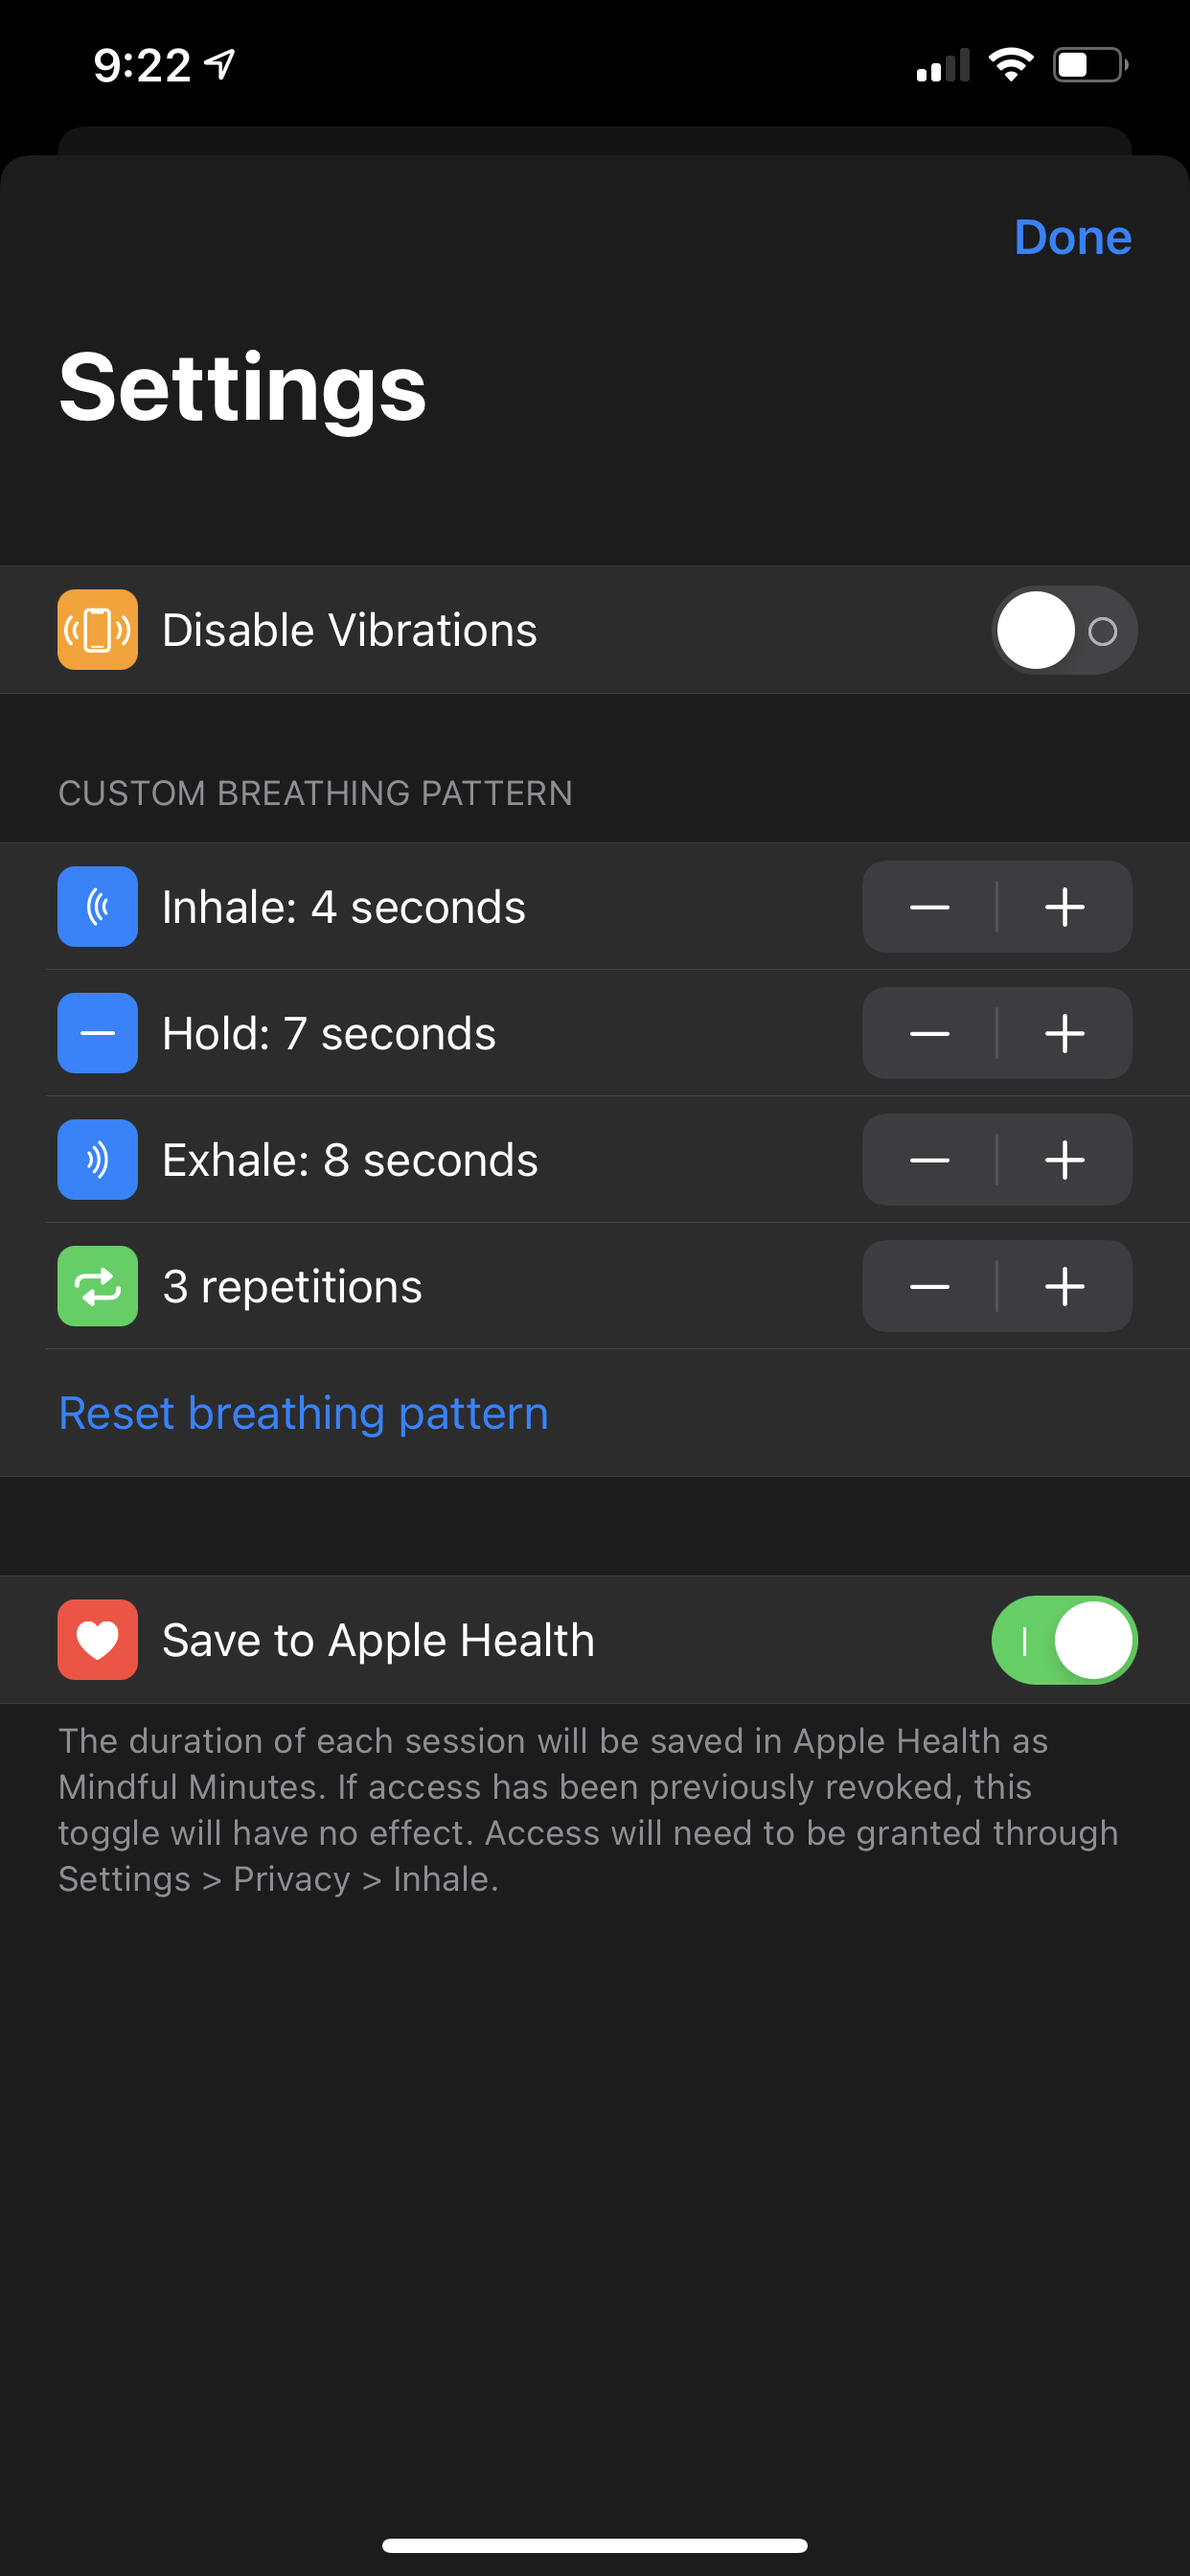
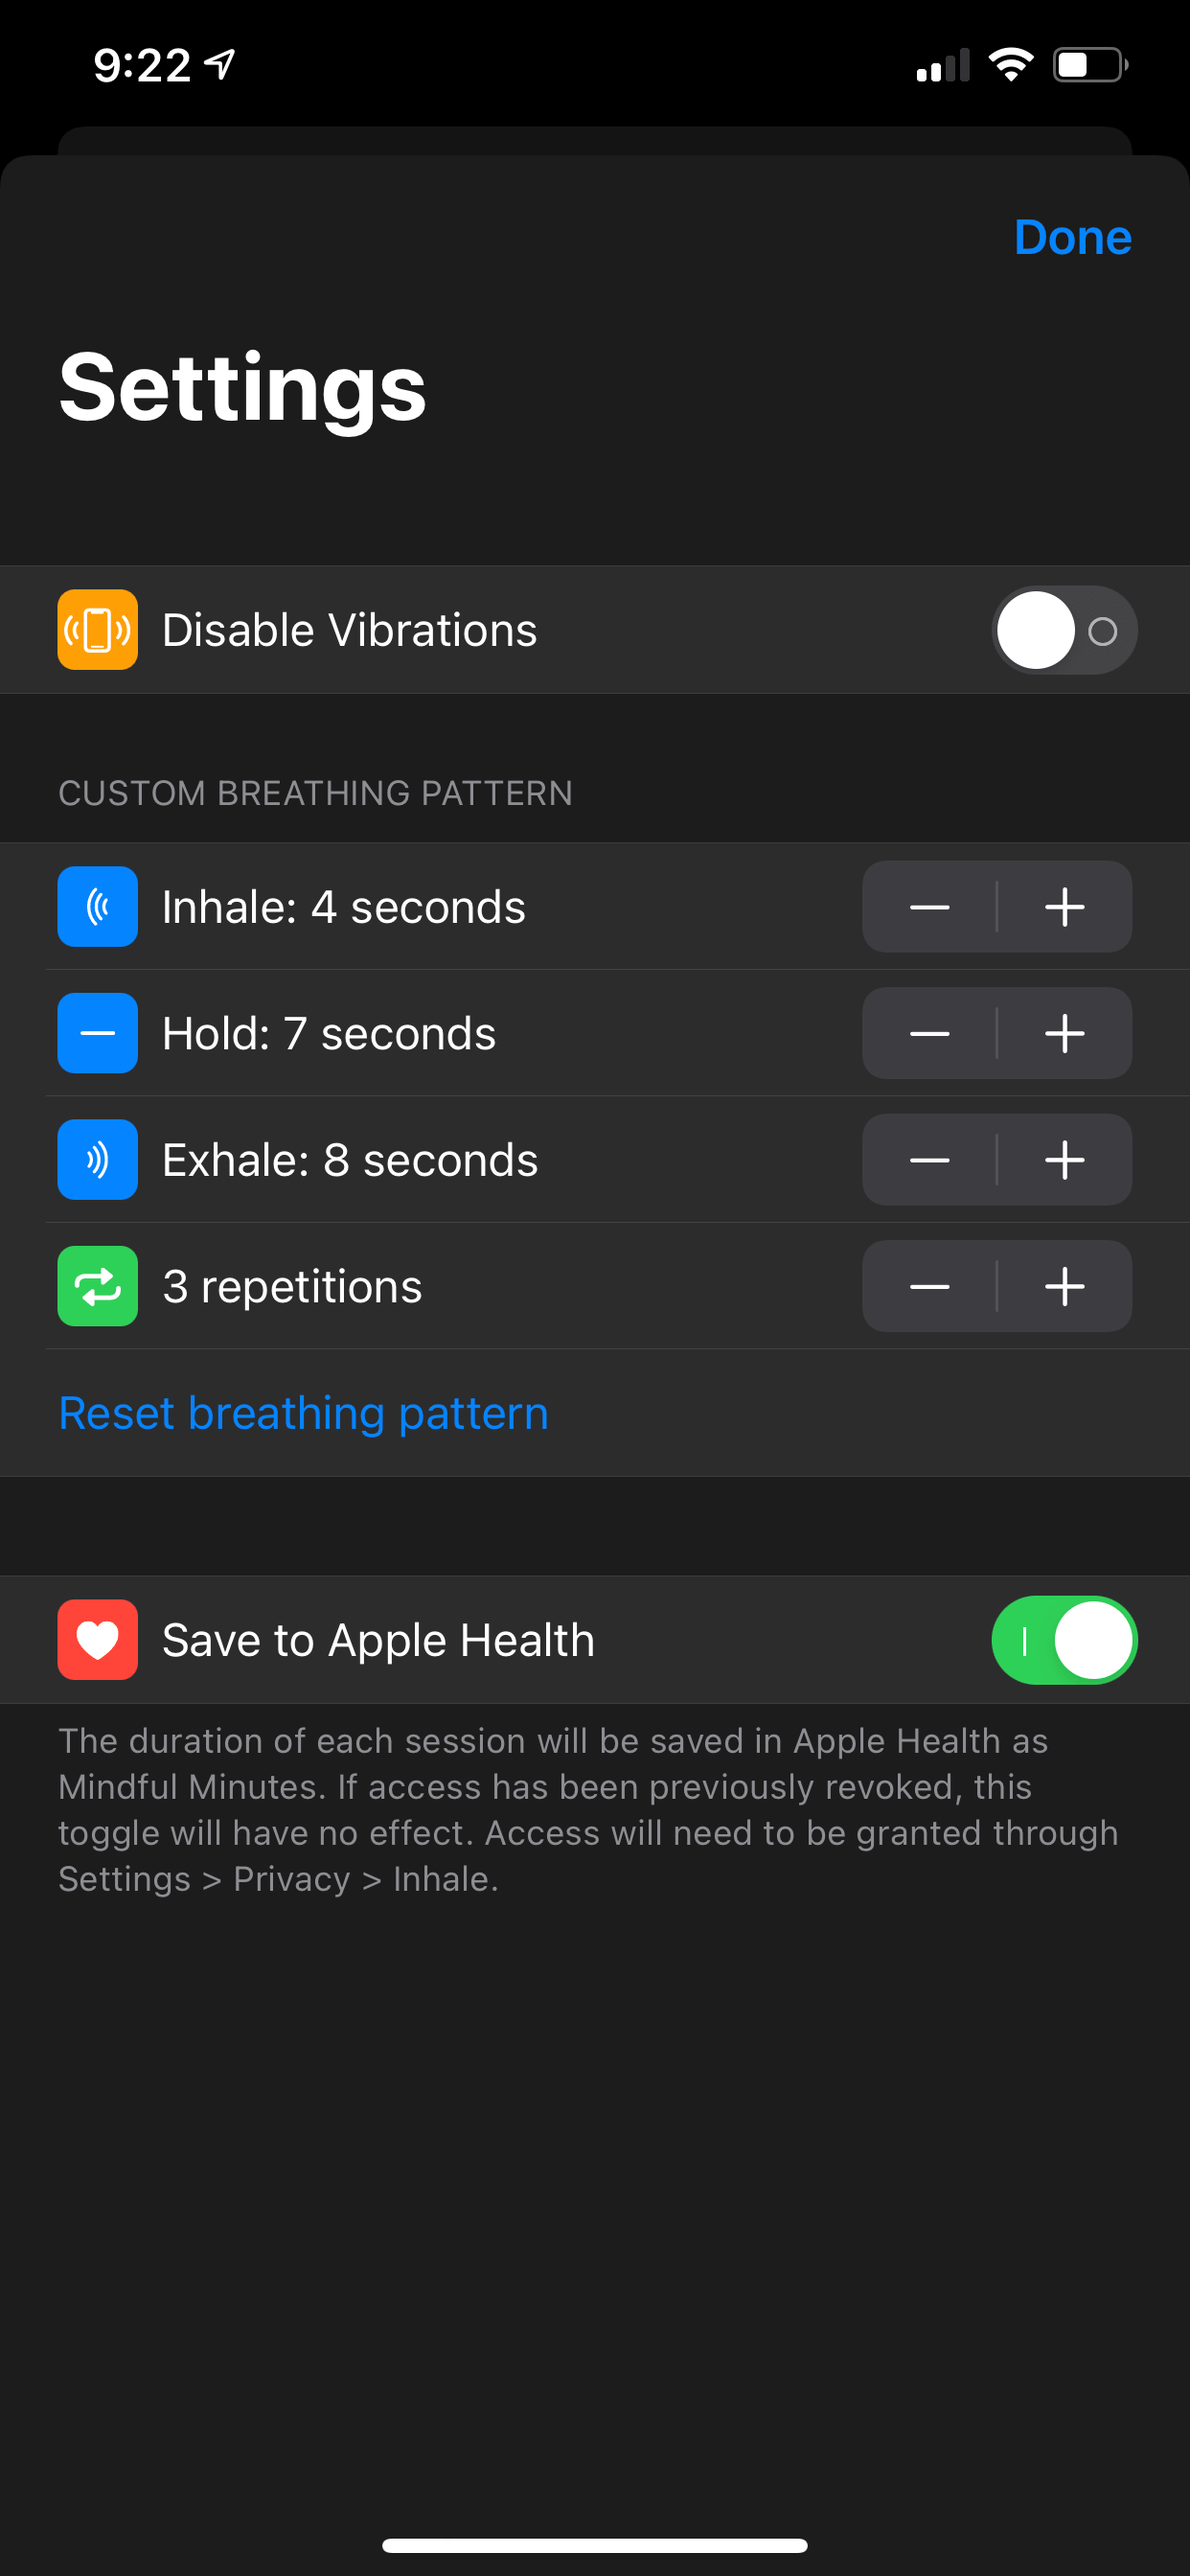
compress images + small content fixes

diff --git a/pages/index.js b/pages/index.js
@@ -28,7 +28,7 @@ export default function Home() {
               <Link href={"/projects/castroom"}>
                 <Row className="project">
                   <Col>
-                    <Image className="project-image" src="/images/projects/castroom/main-cover.png" width={2000} height={1000} />
+                    <Image className="project-image" src="/images/projects/castroom/main-cover.png" width={2000} height={1000} alt="Castroom Project Image" />
                     <h4>Castroom</h4>
                   </Col>
                 </Row>
@@ -37,7 +37,7 @@ export default function Home() {
               <Link href={"/projects/inhale"}>
                 <Row className="project">
                   <Col>
-                    <Image className="project-image" src="/images/projects/inhale/main-cover.png" width={2000} height={1000} />
+                    <Image className="project-image" src="/images/projects/inhale/main-cover.png" width={2000} height={1000} alt="Inhale Project Image" />
                     <h4>Inhale</h4>
                   </Col>
                 </Row>

diff --git a/styles/global.scss b/styles/global.scss
@@ -253,6 +253,16 @@ body {
             }
         }
 
+        h2 {
+            margin-top: 100px;
+        }
+
+
+
+        h3 {
+            margin-top: 40px;
+        }
+
         img {
             margin-top: 20px;
             margin-bottom: 20px;
